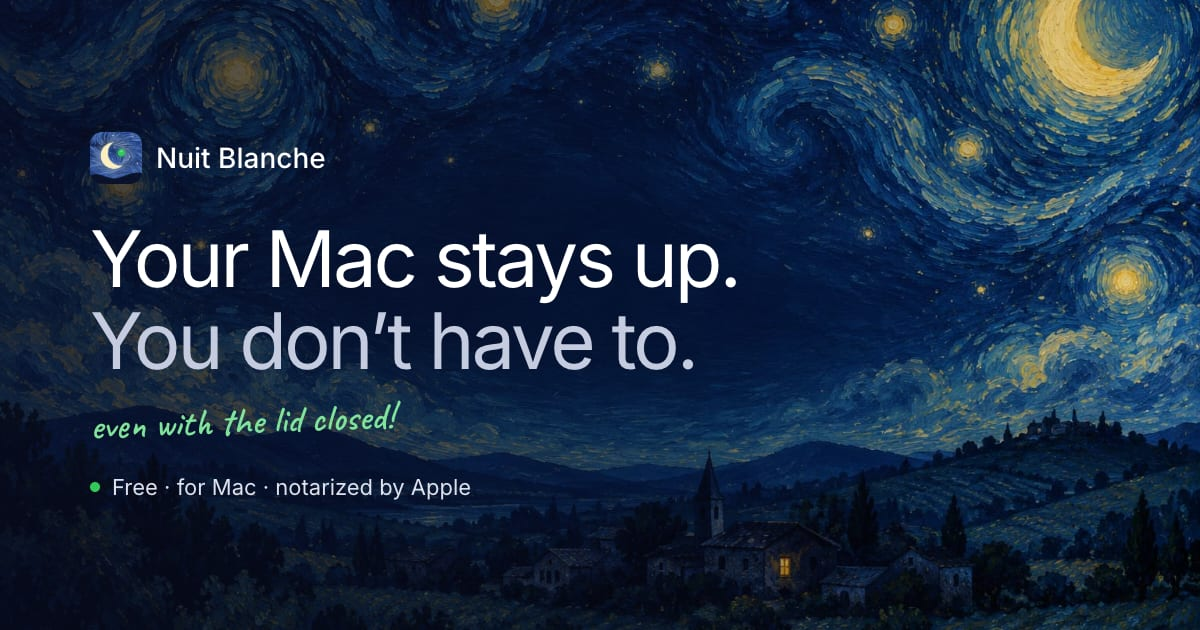
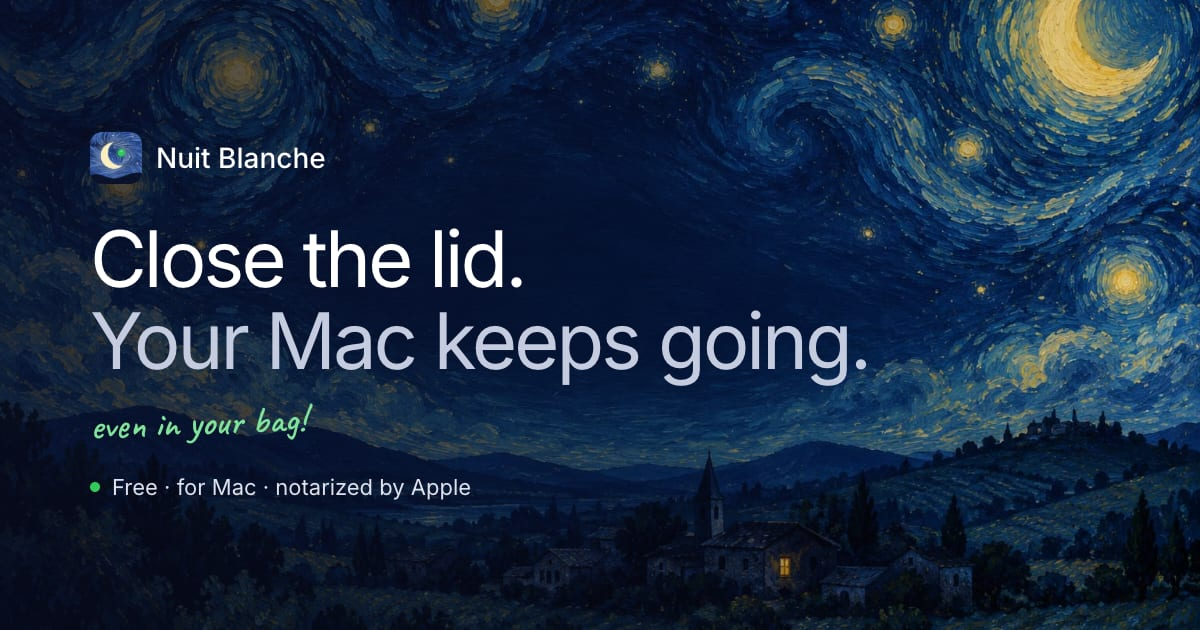
site: update from the app repository

Changed region(s): [[0.185, 0.4825, 0.74, 0.6333], [0.0617, 0.3619, 0.6167, 0.4825], [0.1233, 0.6333, 0.3392, 0.6937]]

diff --git a/docs/index.html b/docs/index.html
@@ -3,8 +3,8 @@
 <head>
 <meta charset="utf-8">
 <meta name="viewport" content="width=device-width, initial-scale=1, viewport-fit=cover">
-<title>Nuit Blanche — ton Mac ne dort plus, même capot fermé</title>
-<meta name="description" content="Nuit Blanche garde ton Mac éveillé d'un seul bouton, même capot fermé. Tes agents IA, téléchargements, rendus et synchros continuent. Et il reste en ligne sur le partage de connexion de ton iPhone. Gratuit, pour Mac.">
+<title>Nuit Blanche — ferme le capot, ton Mac continue</title>
+<meta name="description" content="Ferme le capot, prends ton train : Nuit Blanche garde ton Mac éveillé dans ton sac, sur batterie. Tes agents IA, téléchargements et rendus continuent, et si le Wi‑Fi lâche, il passe sur ton iPhone. Gratuit, pour Mac.">
 <meta name="theme-color" content="#cfeefc" media="(prefers-color-scheme: light)">
 <meta name="theme-color" content="#1b2b5e" media="(prefers-color-scheme: dark)">
 <meta name="color-scheme" content="light dark">
@@ -23,19 +23,19 @@
 <meta property="og:locale" content="fr_FR">
 <meta property="og:locale:alternate" content="en_US">
 <meta property="og:url" content="https://connected-mate.github.io/nuit-blanche/">
-<meta property="og:title" content="Nuit Blanche — ton Mac ne dort plus, même capot fermé">
-<meta property="og:description" content="Un seul bouton : ton Mac reste éveillé et en ligne. Ferme le capot, va dormir, tout continue. Gratuit, pour Mac.">
+<meta property="og:title" content="Nuit Blanche — ferme le capot, ton Mac continue">
+<meta property="og:description" content="Ferme le capot, prends ton train : ton Mac reste éveillé et en ligne dans ton sac. Gratuit, pour Mac.">
 <meta property="og:image" content="https://connected-mate.github.io/nuit-blanche/assets/og.jpg">
 <meta property="og:image:width" content="1200">
 <meta property="og:image:height" content="630">
-<meta property="og:image:alt" content="Un ciel étoilé peint, et la phrase « Ton Mac ne dort plus. Toi, si. »">
+<meta property="og:image:alt" content="Un ciel étoilé peint, et la phrase « Ferme le capot. Ton Mac, lui, continue. »">
 <meta name="twitter:card" content="summary_large_image">
-<meta name="twitter:title" content="Nuit Blanche — ton Mac ne dort plus, même capot fermé">
-<meta name="twitter:description" content="Un seul bouton : ton Mac reste éveillé et en ligne. Ferme le capot, tout continue. Gratuit, pour Mac.">
+<meta name="twitter:title" content="Nuit Blanche — ferme le capot, ton Mac continue">
+<meta name="twitter:description" content="Ferme le capot, prends ton train : ton Mac reste éveillé et en ligne. Gratuit, pour Mac.">
 <meta name="twitter:image" content="https://connected-mate.github.io/nuit-blanche/assets/og.jpg">
 
 <link rel="preload" href="assets/fonts/inter-latin.woff2" as="font" type="font/woff2" crossorigin>
-<link rel="stylesheet" href="style.css">
+<link rel="stylesheet" href="style.css?v=bbb244a2fd">
 <script>
 document.documentElement.classList.replace('no-js', 'js');
 /* Première visite depuis une machine qui n'est pas en français : on propose l'anglais.
@@ -56,7 +56,7 @@ try {
   "name": "Nuit Blanche",
   "applicationCategory": "UtilitiesApplication",
   "operatingSystem": "macOS 14 ou plus récent",
-  "description": "Garde ton Mac éveillé d'un seul bouton, même capot fermé, et connecté au partage de connexion de ton iPhone.",
+  "description": "Garde ton Mac éveillé capot fermé, dans ton sac et sur batterie, et connecté au partage de connexion de ton iPhone quand le Wi‑Fi lâche.",
   "url": "https://connected-mate.github.io/nuit-blanche/",
   "downloadUrl": "https://github.com/Connected-Mate/nuit-blanche/releases/latest/download/NuitBlanche.dmg",
   "image": "https://connected-mate.github.io/nuit-blanche/assets/og.jpg",
@@ -89,9 +89,9 @@ try {
 <section class="wrap hero" aria-labelledby="titre">
   <p class="badge">Gratuit · notarisée par Apple</p>
 
-  <h1 class="display" id="titre">Ton Mac ne dort plus. <span>Toi, si.</span></h1>
+  <h1 class="display" id="titre">Ferme le capot. <span>Ton Mac, lui, continue.</span></h1>
 
-  <p class="lede">Un seul bouton, et ton Mac reste éveillé, même capot fermé. Tes agents IA, tes téléchargements, tes rendus et tes synchros continuent pendant que tu t'en vas.</p>
+  <p class="lede">Dans le train, dans le métro, au fond du sac : un seul bouton, et ton Mac reste éveillé capot fermé, sur batterie. Et si le Wi‑Fi lâche, il passe tout seul sur ton iPhone.</p>
 
   <div class="cta__wrap">
     <div class="cta">
@@ -142,7 +142,7 @@ try {
         <svg viewBox="0 0 24 24" width="15" height="15" fill="currentColor"><path d="M4 9.5h3v5H4zM9.2 7.5h3v9h-3zM14.4 5.5h3v13h-3z"/></svg>
         5G
       </span>
-      <span class="menubar__item menubar__clock">ven. 03:12</span>
+      <span class="menubar__item menubar__clock">ven. 08:42</span>
     </div>
 
     <div class="window" role="group" aria-label="Aperçu de la fenêtre Nuit Blanche">
@@ -209,7 +209,7 @@ try {
 <!-- ————————————————————————————— fonctions -->
 <section class="wrap section" id="fonctions" aria-labelledby="fonctions-titre">
   <p class="kicker">Ce que fait Nuit Blanche</p>
-  <h2 class="h2" id="fonctions-titre">Ferme le capot. Va dormir. Tout continue.</h2>
+  <h2 class="h2" id="fonctions-titre">Ferme le capot. Prends ton train. Tout continue.</h2>
 
   <div class="lid" data-lid>
     <div class="lid__sticky">
@@ -256,7 +256,7 @@ try {
       </div>
       <div class="lid__copy">
         <h3>Capot fermé, ton Mac continue.</h3>
-        <p>Rabats l'écran, glisse-le sous ton bras : tes agents, téléchargements et rendus vont jusqu'au bout.</p>
+        <p>Glisse-le dans ton sac entre deux rendez-vous : tes agents, téléchargements et rendus vont jusqu'au bout, même sur batterie. Et le soir, il bosse pendant que tu dors.</p>
       </div>
     </div>
   </div>
@@ -294,8 +294,8 @@ try {
     </div>
     <div class="hsx__copy">
       <p class="note" aria-hidden="true">toujours en ligne</p>
-      <h3>Ton iPhone devient sa connexion.</h3>
-      <p>Active le partage de connexion une fois : dès que ton iPhone apparaît, ton Mac le rejoint. Par défaut, seulement s'il n'a pas d'autre Internet.</p>
+      <h3>Le Wi‑Fi du train lâche ? Ton iPhone prend le relais.</h3>
+      <p>Active le partage de connexion une fois : dès que le Wi‑Fi tombe, ton Mac rejoint ton iPhone tout seul, et y reste. Par défaut, seulement quand il n'a pas d'autre Internet.</p>
     </div>
   </div>
 
@@ -332,20 +332,20 @@ try {
 <section class="wrap section" aria-labelledby="jobs-titre">
   <div class="jobs">
     <div>
-      <p class="kicker">Pendant que tu dors</p>
+      <p class="kicker">Pendant le trajet</p>
       <h2 class="h2" id="jobs-titre">Ce qui ne s'arrête plus en route</h2>
-      <p class="intro">Tout ce qui s'interrompait quand ton Mac s'endormait va maintenant jusqu'au bout.</p>
+      <p class="intro">Tout ce qui s'arrêtait quand ton Mac s'endormait dans ton sac va maintenant jusqu'au bout.</p>
     </div>
     <ul class="jobs__list">
       <li>
         <span class="jobs__ico" aria-hidden="true"><svg viewBox="0 0 24 24" width="20" height="20" fill="none" stroke="currentColor" stroke-width="1.8" stroke-linecap="round" stroke-linejoin="round"><path d="M12 3v3M12 18v3M3 12h3M18 12h3M5.6 5.6l2.1 2.1M16.3 16.3l2.1 2.1M5.6 18.4l2.1-2.1M16.3 7.7l2.1-2.1"/><circle cx="12" cy="12" r="3"/></svg></span>
         <b>Tes agents IA</b>
-        <span>Claude, Codex et les autres continuent leur tâche toute la nuit, sans que la connexion saute au milieu.</span>
+        <span>Claude, Codex et les autres continuent leur tâche pendant tout le trajet, sans que la connexion saute au milieu.</span>
       </li>
       <li>
         <span class="jobs__ico" aria-hidden="true"><svg viewBox="0 0 24 24" width="20" height="20" fill="none" stroke="currentColor" stroke-width="1.8" stroke-linecap="round" stroke-linejoin="round"><path d="M12 4v11M7 10l5 5 5-5M5 20h14"/></svg></span>
         <b>Les gros téléchargements</b>
-        <span>Un jeu, une mise à jour, une vidéo de plusieurs gigas&nbsp;: lance, ferme, retrouve-le fini.</span>
+        <span>Un jeu, une mise à jour, une vidéo de plusieurs gigas&nbsp;: lance, ferme, retrouve-le fini à l'arrivée.</span>
       </li>
       <li>
         <span class="jobs__ico" aria-hidden="true"><svg viewBox="0 0 24 24" width="20" height="20" fill="none" stroke="currentColor" stroke-width="1.8" stroke-linecap="round" stroke-linejoin="round"><rect x="3" y="5" width="18" height="14" rx="3"/><path d="M10 9.5v5l4-2.5-4-2.5Z"/></svg></span>
@@ -532,8 +532,8 @@ try {
       <source type="image/avif" srcset="assets/sky-800.avif 800w, assets/sky-1536.avif 1536w" sizes="(max-width: 1260px) 100vw, 1200px">
       <img src="assets/sky-1536.jpg" width="1536" height="1024" alt="" loading="lazy" decoding="async">
     </picture>
-    <p class="note" aria-hidden="true">bonne nuit&nbsp;!</p>
-    <h2 id="fin-titre">Ce soir, c'est ton Mac qui fait nuit blanche.</h2>
+    <p class="note" aria-hidden="true">bonne route&nbsp;!</p>
+    <h2 id="fin-titre">Ferme le capot. Il s'occupe du reste.</h2>
     <a class="btn btn--go btn--lg" data-download href="https://github.com/Connected-Mate/nuit-blanche/releases/latest/download/NuitBlanche.dmg"><span data-download-label>Télécharger pour Mac</span></a>
     <p class="fine"><span>Gratuit</span><span>macOS 14+</span><span>Notarisée par Apple</span></p>
   </div>
@@ -562,6 +562,6 @@ try {
   <a class="btn btn--go" data-download href="https://github.com/Connected-Mate/nuit-blanche/releases/latest/download/NuitBlanche.dmg"><span data-download-short>Télécharger</span></a>
 </nav>
 
-<script src="main.js" defer></script>
+<script src="main.js?v=6ce5aa2da7" defer></script>
 </body>
 </html>

diff --git a/docs/en/index.html b/docs/en/index.html
@@ -3,8 +3,8 @@
 <head>
 <meta charset="utf-8">
 <meta name="viewport" content="width=device-width, initial-scale=1, viewport-fit=cover">
-<title>Nuit Blanche — your Mac stays awake, even with the lid closed</title>
-<meta name="description" content="Nuit Blanche keeps your Mac awake with one switch, even with the lid closed. Your AI agents, downloads, renders and syncs keep going. And it stays online through your iPhone's hotspot. Free, for Mac.">
+<title>Nuit Blanche — close the lid, your Mac keeps going</title>
+<meta name="description" content="Close the lid, catch your train: Nuit Blanche keeps your Mac awake in your bag, on battery. Your AI agents, downloads and renders keep going, and if the Wi‑Fi drops, it switches to your iPhone. Free, for Mac.">
 <meta name="theme-color" content="#cfeefc" media="(prefers-color-scheme: light)">
 <meta name="theme-color" content="#1b2b5e" media="(prefers-color-scheme: dark)">
 <meta name="color-scheme" content="light dark">
@@ -23,19 +23,19 @@
 <meta property="og:locale" content="en_US">
 <meta property="og:locale:alternate" content="fr_FR">
 <meta property="og:url" content="https://connected-mate.github.io/nuit-blanche/en/">
-<meta property="og:title" content="Nuit Blanche — your Mac stays awake, even with the lid closed">
-<meta property="og:description" content="One switch: your Mac stays awake and online. Close the lid, go to bed, everything keeps going. Free, for Mac.">
+<meta property="og:title" content="Nuit Blanche — close the lid, your Mac keeps going">
+<meta property="og:description" content="Close the lid, catch your train: your Mac stays awake and online in your bag. Free, for Mac.">
 <meta property="og:image" content="https://connected-mate.github.io/nuit-blanche/assets/og-en.jpg">
 <meta property="og:image:width" content="1200">
 <meta property="og:image:height" content="630">
-<meta property="og:image:alt" content="A painted starry sky and the line “Your Mac stays up. You don’t have to.”">
+<meta property="og:image:alt" content="A painted starry sky and the line “Close the lid. Your Mac keeps going.”">
 <meta name="twitter:card" content="summary_large_image">
-<meta name="twitter:title" content="Nuit Blanche — your Mac stays awake, even with the lid closed">
-<meta name="twitter:description" content="One switch: your Mac stays awake and online. Close the lid, everything keeps going. Free, for Mac.">
+<meta name="twitter:title" content="Nuit Blanche — close the lid, your Mac keeps going">
+<meta name="twitter:description" content="Close the lid, catch your train: your Mac stays awake and online. Free, for Mac.">
 <meta name="twitter:image" content="https://connected-mate.github.io/nuit-blanche/assets/og-en.jpg">
 
 <link rel="preload" href="../assets/fonts/inter-latin.woff2" as="font" type="font/woff2" crossorigin>
-<link rel="stylesheet" href="../style.css">
+<link rel="stylesheet" href="../style.css?v=bbb244a2fd">
 <script>
 document.documentElement.classList.replace('no-js', 'js');
 /* A visitor who explicitly chose French goes back to the French page. */
@@ -50,7 +50,7 @@ try {
   "name": "Nuit Blanche",
   "applicationCategory": "UtilitiesApplication",
   "operatingSystem": "macOS 14 or later",
-  "description": "Keeps your Mac awake with one switch, even with the lid closed, and connected to your iPhone hotspot.",
+  "description": "Keeps your Mac awake with the lid closed, in your bag and on battery, and connected to your iPhone hotspot when the Wi‑Fi drops.",
   "url": "https://connected-mate.github.io/nuit-blanche/en/",
   "downloadUrl": "https://github.com/Connected-Mate/nuit-blanche/releases/latest/download/NuitBlanche.dmg",
   "image": "https://connected-mate.github.io/nuit-blanche/assets/og.jpg",
@@ -83,9 +83,9 @@ try {
 <section class="wrap hero" aria-labelledby="titre">
   <p class="badge">Free · notarized by Apple</p>
 
-  <h1 class="display" id="titre">Your Mac stays up. <span>You don’t have to.</span></h1>
+  <h1 class="display" id="titre">Close the lid. <span>Your Mac keeps going.</span></h1>
 
-  <p class="lede">One switch, and your Mac stays awake, even with the lid closed. Your AI agents, downloads, renders and syncs keep going while you walk away.</p>
+  <p class="lede">On the train, on the metro, in your bag: one switch, and your Mac stays awake with the lid closed, on battery. And if the Wi‑Fi drops, it switches to your iPhone on its own.</p>
 
   <div class="cta__wrap">
     <div class="cta">
@@ -136,7 +136,7 @@ try {
         <svg viewBox="0 0 24 24" width="15" height="15" fill="currentColor"><path d="M4 9.5h3v5H4zM9.2 7.5h3v9h-3zM14.4 5.5h3v13h-3z"/></svg>
         5G
       </span>
-      <span class="menubar__item menubar__clock">Fri 3:12 AM</span>
+      <span class="menubar__item menubar__clock">Fri 8:42 AM</span>
     </div>
 
     <div class="window" role="group" aria-label="Preview of the Nuit Blanche window">
@@ -203,7 +203,7 @@ try {
 <!-- ————————————————————————————— fonctions -->
 <section class="wrap section" id="fonctions" aria-labelledby="fonctions-titre">
   <p class="kicker">What Nuit Blanche does</p>
-  <h2 class="h2" id="fonctions-titre">Close the lid. Go to bed. Everything keeps going.</h2>
+  <h2 class="h2" id="fonctions-titre">Close the lid. Catch your train. Everything keeps going.</h2>
 
   <div class="lid" data-lid>
     <div class="lid__sticky">
@@ -250,7 +250,7 @@ try {
       </div>
       <div class="lid__copy">
         <h3>Lid closed, your Mac keeps going.</h3>
-        <p>Close the screen, tuck it under your arm: your agents, downloads and renders run to the end.</p>
+        <p>Slip it in your bag between meetings: your agents, downloads and renders run to the end, even on battery. And at night, it works while you sleep.</p>
       </div>
     </div>
   </div>
@@ -288,8 +288,8 @@ try {
     </div>
     <div class="hsx__copy">
       <p class="note" aria-hidden="true">always online</p>
-      <h3>Your iPhone becomes its connection.</h3>
-      <p>Turn on Personal Hotspot once: whenever your iPhone shows up, your Mac joins it. By default, only when there’s no other internet.</p>
+      <h3>Train Wi‑Fi gone? Your iPhone takes over.</h3>
+      <p>Turn on Personal Hotspot once: as soon as the Wi‑Fi drops, your Mac joins your iPhone on its own and stays on it. By default, only when there’s no other internet.</p>
     </div>
   </div>
 
@@ -326,20 +326,20 @@ try {
 <section class="wrap section" aria-labelledby="jobs-titre">
   <div class="jobs">
     <div>
-      <p class="kicker">While you sleep</p>
+      <p class="kicker">On the way</p>
       <h2 class="h2" id="jobs-titre">What no longer stops halfway</h2>
-      <p class="intro">Everything that used to stall when your Mac dozed off now runs to the end.</p>
+      <p class="intro">Everything that used to stop when your Mac dozed off in your bag now runs to the end.</p>
     </div>
     <ul class="jobs__list">
       <li>
         <span class="jobs__ico" aria-hidden="true"><svg viewBox="0 0 24 24" width="20" height="20" fill="none" stroke="currentColor" stroke-width="1.8" stroke-linecap="round" stroke-linejoin="round"><path d="M12 3v3M12 18v3M3 12h3M18 12h3M5.6 5.6l2.1 2.1M16.3 16.3l2.1 2.1M5.6 18.4l2.1-2.1M16.3 7.7l2.1-2.1"/><circle cx="12" cy="12" r="3"/></svg></span>
         <b>Your AI agents</b>
-        <span>Claude, Codex and friends keep working all night, without the connection dropping halfway.</span>
+        <span>Claude, Codex and friends keep working for the whole trip, without the connection dropping halfway.</span>
       </li>
       <li>
         <span class="jobs__ico" aria-hidden="true"><svg viewBox="0 0 24 24" width="20" height="20" fill="none" stroke="currentColor" stroke-width="1.8" stroke-linecap="round" stroke-linejoin="round"><path d="M12 4v11M7 10l5 5 5-5M5 20h14"/></svg></span>
         <b>Big downloads</b>
-        <span>A game, an update, a multi-gigabyte video: start it, close the lid, find it done.</span>
+        <span>A game, an update, a multi-gigabyte video: start it, close the lid, find it done when you arrive.</span>
       </li>
       <li>
         <span class="jobs__ico" aria-hidden="true"><svg viewBox="0 0 24 24" width="20" height="20" fill="none" stroke="currentColor" stroke-width="1.8" stroke-linecap="round" stroke-linejoin="round"><rect x="3" y="5" width="18" height="14" rx="3"/><path d="M10 9.5v5l4-2.5-4-2.5Z"/></svg></span>
@@ -526,8 +526,8 @@ try {
       <source type="image/avif" srcset="../assets/sky-800.avif 800w, ../assets/sky-1536.avif 1536w" sizes="(max-width: 1260px) 100vw, 1200px">
       <img src="../assets/sky-1536.jpg" width="1536" height="1024" alt="" loading="lazy" decoding="async">
     </picture>
-    <p class="note" aria-hidden="true">good night!</p>
-    <h2 id="fin-titre">Tonight, your Mac pulls the all-nighter.</h2>
+    <p class="note" aria-hidden="true">have a good trip!</p>
+    <h2 id="fin-titre">Close the lid. It takes care of the rest.</h2>
     <a class="btn btn--go btn--lg" data-download href="https://github.com/Connected-Mate/nuit-blanche/releases/latest/download/NuitBlanche.dmg"><span data-download-label>Download for Mac</span></a>
     <p class="fine"><span>Free</span><span>macOS 14+</span><span>Notarized by Apple</span></p>
   </div>
@@ -556,6 +556,6 @@ try {
   <a class="btn btn--go" data-download href="https://github.com/Connected-Mate/nuit-blanche/releases/latest/download/NuitBlanche.dmg"><span data-download-short>Download</span></a>
 </nav>
 
-<script src="../main.js" defer></script>
+<script src="../main.js?v=6ce5aa2da7" defer></script>
 </body>
 </html>

diff --git a/docs/style.css b/docs/style.css
@@ -209,9 +209,9 @@ p { margin: 0; text-wrap: pretty; }
   line-height: 1.06;
   letter-spacing: -.04em;
   font-weight: 400;
-  max-width: 14ch;
+  max-width: 21ch;
 }
-.display span { color: var(--muted); }
+.display span { display: block; color: var(--muted); }
 
 .lede {
   font-size: clamp(17px, 1.6vw, 20px); line-height: 1.5;
@@ -237,7 +237,7 @@ p { margin: 0; text-wrap: pretty; }
 }
 .note--hero {
   position: absolute; right: calc(100% + 16px); top: -8px;
-  width: 150px; text-align: right; transform: rotate(-3deg);
+  width: 175px; text-align: right; transform: rotate(-3deg);
 }
 .note--hero svg { margin: 0 0 0 auto; color: var(--note); }
 @media (max-width: 860px) {

diff --git a/docs/404.html b/docs/404.html
@@ -7,7 +7,7 @@
 <meta name="robots" content="noindex">
 <meta name="color-scheme" content="light dark">
 <link rel="icon" href="/nuit-blanche/assets/favicon-32.png" sizes="32x32" type="image/png">
-<link rel="stylesheet" href="/nuit-blanche/style.css">
+<link rel="stylesheet" href="/nuit-blanche/style.css?v=bbb244a2fd">
 </head>
 <body>
 <div class="dawn" aria-hidden="true"></div>

diff --git a/README.md b/README.md
@@ -1,6 +1,6 @@
-# Nuit Blanche — ton Mac ne dort plus
+# Nuit Blanche — ferme le capot, ton Mac continue
 
-Un seul bouton : ton Mac reste éveillé, même capot fermé. Tes agents IA, téléchargements, rendus et synchros continuent pendant que tu t'en vas. Et avec le partage de connexion, il reste en ligne sur ton iPhone.
+Ferme le capot, prends ton train : ton Mac reste éveillé dans ton sac, sur batterie. Tes agents IA, téléchargements et rendus continuent, et si le Wi‑Fi lâche, il passe sur ton iPhone.
 
 **Télécharger** : la dernière version est dans [Releases](https://github.com/Connected-Mate/nuit-blanche/releases/latest) (`NuitBlanche.dmg`, macOS 14 ou plus récent). Application notarisée par Apple.
 
